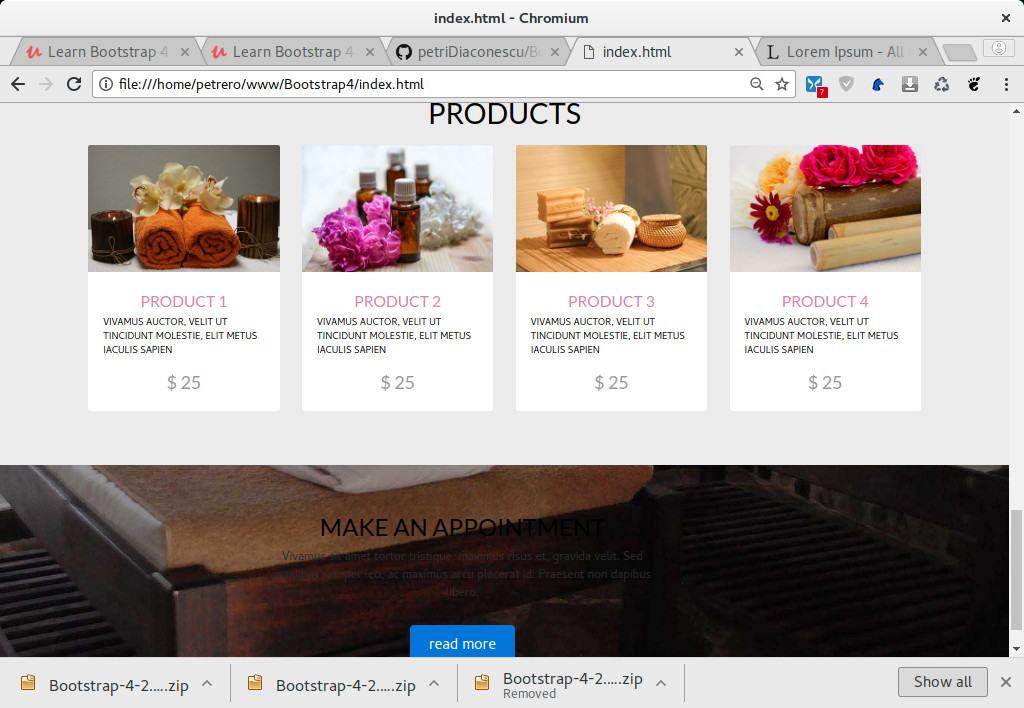
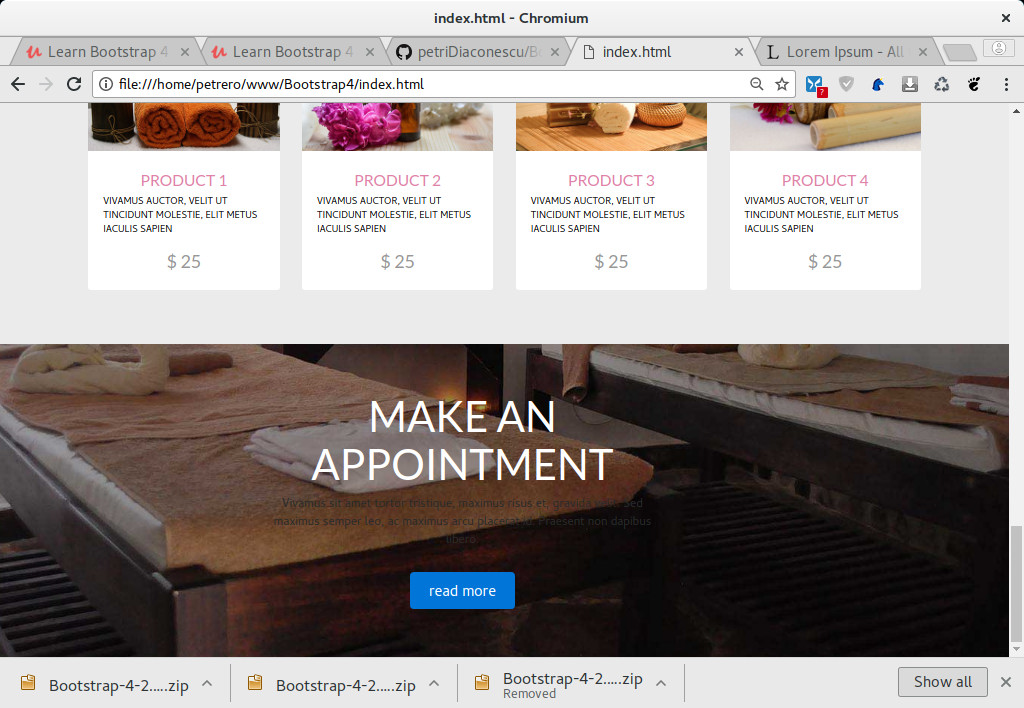
Style h3 tag appointment section

diff --git a/css/styles.css b/css/styles.css
@@ -170,3 +170,9 @@ nav.main-nav .nav-link {
   background-position: center center;
   background-attachment: fixed;
 }
+
+.appointment h3 {
+  font-size: 3.5rem;
+  color: #fff;
+  line-height: 4rem;
+}
